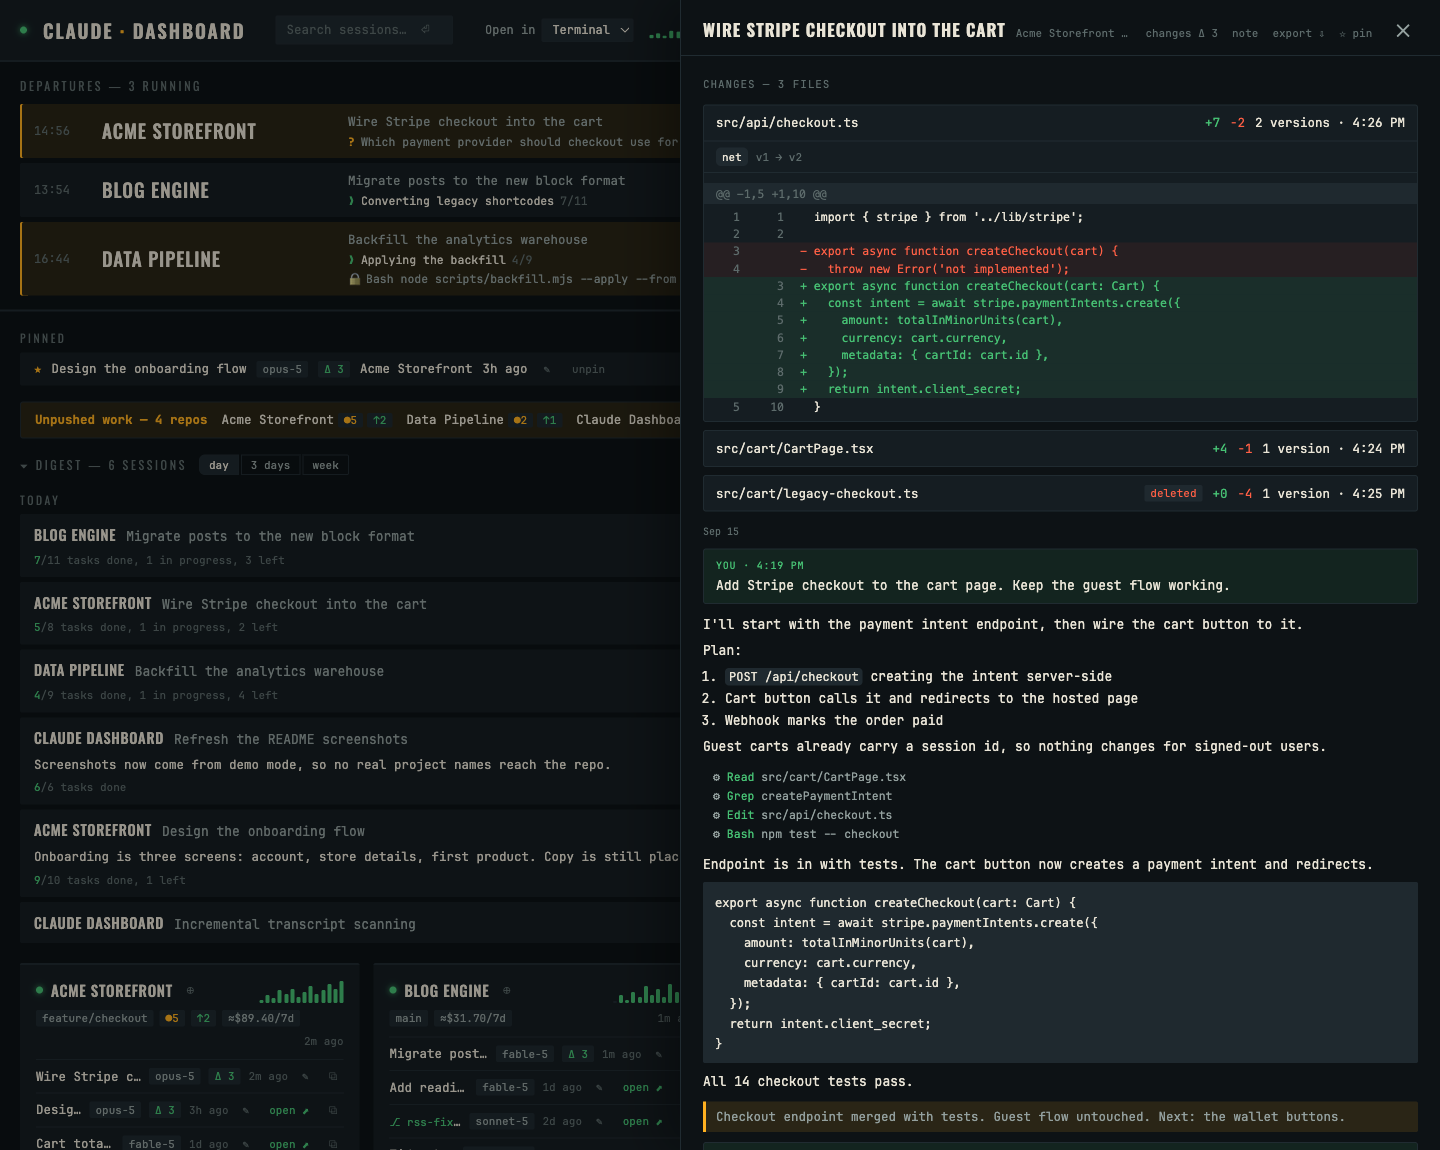
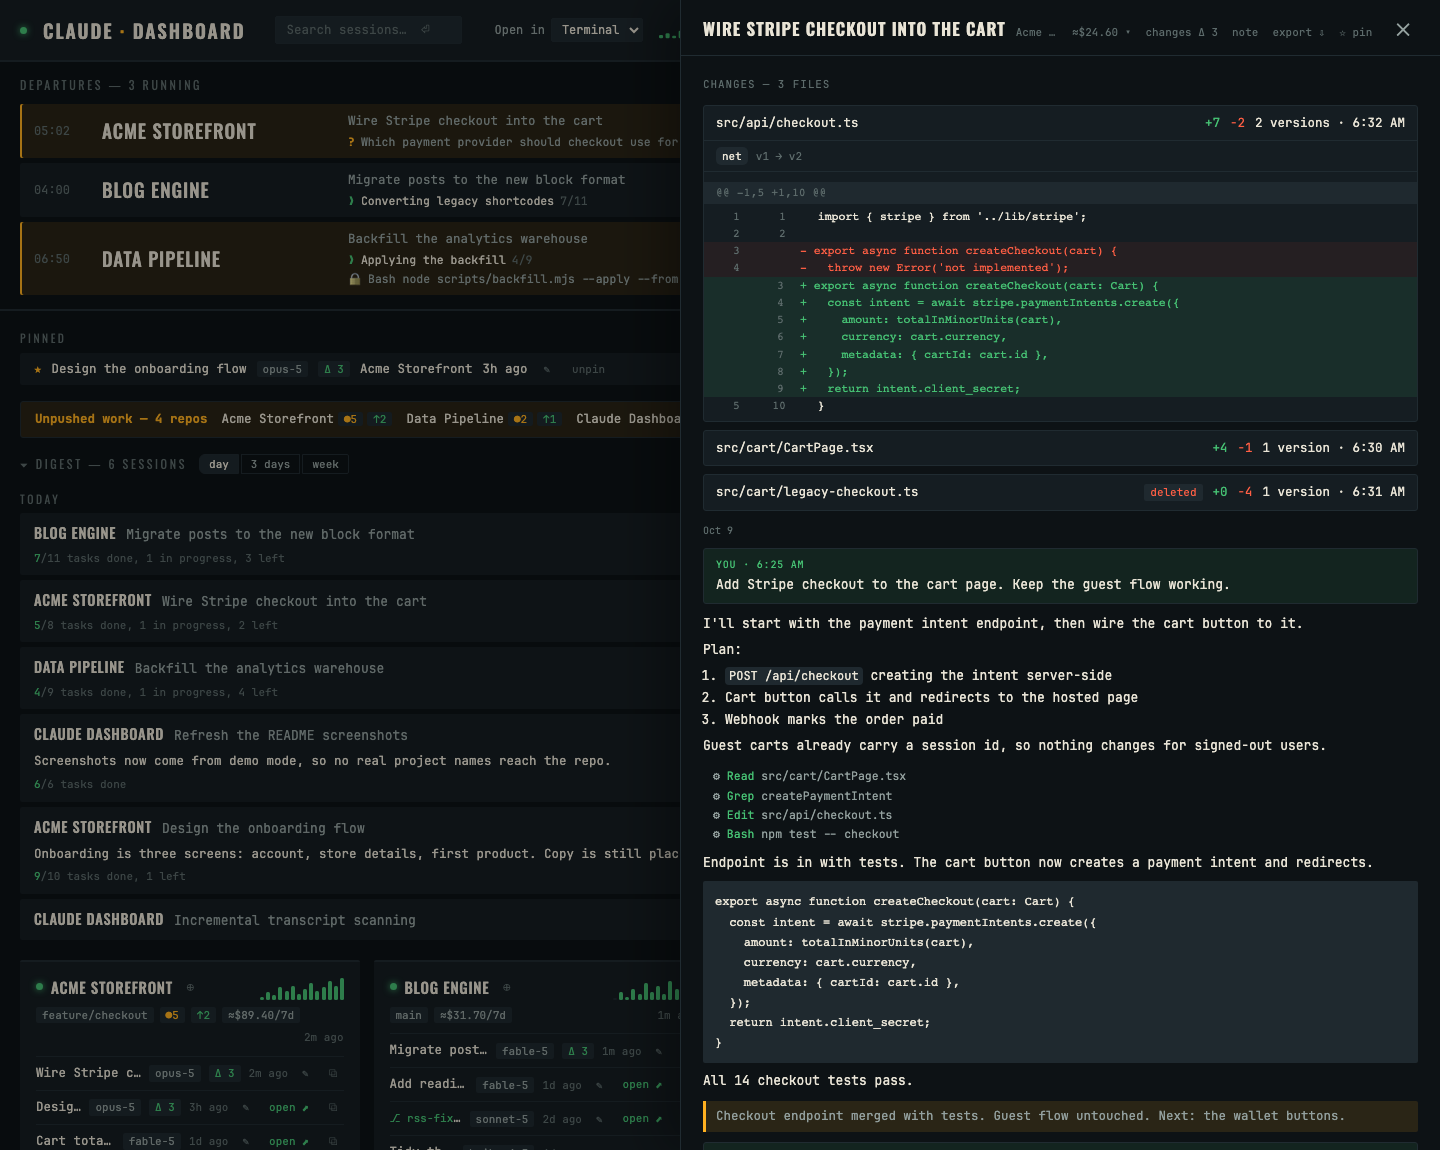
v1.11.1 — Mission Control header fix, matched demo data, refreshed screenshots

diff --git a/public/index.html b/public/index.html
@@ -603,10 +603,12 @@
   }
   .mc-pane.waiting { box-shadow: inset 0 2px 0 var(--warn); }
   .mc-pane-head {
-    display: flex; align-items: center; gap: 10px;
+    display: flex; flex-wrap: wrap; align-items: center; gap: 4px 10px;
     padding: 8px 12px; border-bottom: 1px solid var(--line); flex: none;
     min-width: 0;
   }
+  .mc-pane-head .mc-proj { min-width: 0; flex: 0 1 auto; }
+  .mc-stats { flex: 1 0 100%; display: flex; flex-wrap: wrap; align-items: center; gap: 4px 12px; min-width: 0; }
   .mc-pane-head .mc-proj {
     font-family: var(--disp-font);
     text-transform: uppercase; letter-spacing: 0.05em;
@@ -2056,9 +2058,13 @@ function mcPaneHead(s) {
     ? `<span class="mc-meta" title="subagent transcripts · their tokens">⑂ ${s.subagents.count}${
         s.subagents.mtok ? ` · ${s.subagents.mtok}M tok` : ''}</span>`
     : '';
+  // Two rows: identity and status on top, the numbers underneath, so a
+  // narrow pane never pushes its status badge into the next one.
+  const stats = `${s.estCost != null ? costChip(s.estCost, { cls: 'mc-meta', assumed: s.assumed, after: s.burnRate ? ` · $${s.burnRate}/h` : '' }) : ''}${contextMeter(s.context)}${s.tools ? `<span class="mc-meta" title="tool calls in this session">${s.tools.total} tools${s.tools.errors ? ` · <span class="failed">${s.tools.errors} failed</span>` : ''}</span>` : ''}${subs}`;
   return `<span class="mc-proj" data-session="${esc(s.sessionId)}" title="Open the full transcript">${esc(s.projectName)}</span>
-    ${modelChip(s.model)}${s.estCost != null ? costChip(s.estCost, { cls: 'mc-meta', assumed: s.assumed, after: s.burnRate ? ` · $${s.burnRate}/h` : '' }) : ''}${subs}${contextMeter(s.context)}${s.tools ? `<span class="mc-meta" title="tool calls in this session">${s.tools.total} tools${s.tools.errors ? ` · <span class="failed">${s.tools.errors} failed</span>` : ''}</span>` : ''}<span class="spacer"></span>
-    <span class="mc-meta${s.waitingMin != null ? ' overdue' : ''}">${s.waitingMin != null ? waitLabel(s.waitingMin) : elapsed(s.startedAt)}</span>${statusFlap(s, 'mc:')}`;
+    ${modelChip(s.model)}<span class="spacer"></span>
+    <span class="mc-meta${s.waitingMin != null ? ' overdue' : ''}">${s.waitingMin != null ? waitLabel(s.waitingMin) : elapsed(s.startedAt)}</span>${statusFlap(s, 'mc:')}${
+    stats ? `<span class="mc-stats">${stats}</span>` : ''}`;
 }
 
 const AGENT_COLORS = { blue: '#4a90e2', green: 'var(--accent)', red: 'var(--bad)', yellow: 'var(--warn)', purple: '#a86ee0', cyan: '#2fb8c9', orange: '#e08a2f', pink: '#e06ea8', gray: 'var(--faint)', grey: 'var(--faint)' };

diff --git a/lib/demo.js b/lib/demo.js
@@ -283,10 +283,30 @@ const DEMO_USAGE = {
   tools: { total: 388, errors: 0, byName: [{ name: 'Edit', count: 141, errors: 0 }, { name: 'Read', count: 122, errors: 0 }, { name: 'Bash', count: 79, errors: 0 }, { name: 'Grep', count: 46, errors: 0 }] },
 };
 
+// Per-session usage, so a transcript's cost badge matches its row on the
+// board (S1 Acme $24.60, S4 Data Pipeline $3.40); everything else gets the
+// Blog Engine block.
+const DEMO_USAGE_BY_ID = {
+  [S1]: {
+    cost: 24.6, tokens: 6_200_000, cacheHitRatio: 0.91,
+    byModel: [{ model: 'claude-opus-5', input: 140_000, output: 210_000, cacheRead: 5_400_000, cacheCreation: 450_000, cost: 24.6 }],
+    subagents: null, assumedModels: [],
+    context: { tokens: 412000, window: 1000000, pct: 41 },
+    tools: { total: 142, errors: 3, byName: [{ name: 'Read', count: 58, errors: 0 }, { name: 'Edit', count: 41, errors: 1 }, { name: 'Bash', count: 29, errors: 2 }, { name: 'Grep', count: 14, errors: 0 }] },
+  },
+  [S4]: {
+    cost: 3.4, tokens: 2_100_000, cacheHitRatio: 0.88,
+    byModel: [{ model: 'claude-sonnet-5', input: 60_000, output: 70_000, cacheRead: 1_850_000, cacheCreation: 120_000, cost: 3.4 }],
+    subagents: null, assumedModels: [],
+    context: { tokens: 186000, window: 1000000, pct: 19 },
+    tools: { total: 37, errors: 1, byName: [{ name: 'Bash', count: 21, errors: 1 }, { name: 'Read', count: 12, errors: 0 }, { name: 'Edit', count: 4, errors: 0 }] },
+  },
+};
+
 // The usage block rides only on the initial load, like the real endpoint.
 function demoSession(id, after) {
   const t = demoSessionInner(id, after);
-  return after ? t : { ...t, usage: DEMO_USAGE };
+  return after ? t : { ...t, usage: DEMO_USAGE_BY_ID[id] || DEMO_USAGE };
 }
 
 function blogSession(now, after) {

diff --git a/README.md b/README.md
@@ -26,7 +26,7 @@ Claude Code runs in a terminal. Once you have two or three sessions going, you l
 
 **Requirements:** macOS or Linux (Windows experimental, see below), Node.js ≥ 18, Claude Code.
 
-![Claude Dashboard, dark mode: three live sessions, two of them waiting with the question shown, plus the pinned strip, unpushed work, and today's digest](docs/screenshots/dashboard-dark.png)
+![Claude Dashboard, dark mode: three live sessions with live cost, burn rate and context meters, two of them waiting with the question shown, plus the pinned strip, unpushed work, and today's digest](docs/screenshots/dashboard-dark.png)
 
 *Every screenshot here is demo data (`CLAUDE_DASH_DEMO=1`). The projects are invented.*
 
@@ -121,9 +121,9 @@ If something looks off, the log is at `~/Library/Logs/claude-dashboard.log`. To 
 - **Project cards** — sorted by last activity. Branch chip, `●n` uncommitted changes, `↑n` unpushed commits. The sparkline is prompts per day for the last two weeks. Each session row has an `open ⬈` button that resumes the session in your terminal (new window, right directory) or imports it into the Claude desktop app when it's installed — the **Open in** selector in the header names whichever terminal you've configured (auto-detected on first run). The `⧉` button copies the `claude --resume` command instead.
 - **Header meters** — your plan and rate-limit tier (Free/Pro/Max/Enterprise/API, detected from Claude Code's local account cache), live session and weekly usage from Anthropic's usage API via your existing Claude Code sign-in, plus extra-usage spend. Set a **weekly budget** in settings and a third meter tracks estimated cost (list-price value on a subscription) against it, with one alert each at 75 / 90 / 100%. First run may show one macOS Keychain prompt — click Always Allow.
 
-![Mission Control: every live session tiled side by side, each pane following its own transcript, with the waiting reason at the top of each pane and the agent team under the middle one](docs/screenshots/mission-control.png)
+![Mission Control: every live session tiled side by side, each pane following its own transcript, with cost, burn rate, context meter and tool counts in each header, the waiting reason under it, and the agent team under the middle one](docs/screenshots/mission-control.png)
 
-![Transcript viewer live-following a running session: the agent team at the top, then prompts, replies as markdown, and tool calls as one-liners](docs/screenshots/transcript.png)
+![Transcript viewer on a running session with the cost panel open: value per model by input, output and cache, the subagent share, cache hit rate, context and tool calls, then the agent team and the conversation](docs/screenshots/transcript.png)
 
 - **Transcripts** — click any session title (cards, digest, search results, project drawer) to read the conversation: your prompts, Claude's replies rendered as markdown, tool calls as compact one-liners, and away-summaries highlighted. Long sessions show the newest ~1200 events. **Running sessions follow live** — a `● live` badge appears, new turns stream in every few seconds, and the view sticks to the bottom unless you've scrolled up to read.
 - **Search** — the header box searches every prompt you've ever sent plus all session titles (Enter to run, 2+ characters). Narrow with `project:name` or `since:7d` / `since:2026-08-01`. Clicking a prompt result opens the transcript scrolled to the matching turn. If the answer isn't in a prompt, **search inside full transcripts** runs the same query across the conversation bodies — slower, so it's a second click rather than the default.
@@ -143,10 +143,13 @@ If something looks off, the log is at `~/Library/Logs/claude-dashboard.log`. To 
 - **Models everywhere** — every session shows which model ran it (live cards, digest, session lists), and the stats view breaks down usage per model and per project.
 - **Claude.ai chats** — import the official export from claude.ai (Settings → Privacy → Export data, then feed `conversations.json` to ⚙ settings here) and your chats become browsable (`⌘K` → Claude.ai chats) and full-text searchable next to your coding sessions. Stored slimmed in your local config dir, gitignored, never uploaded anywhere.
 
-![Stats view: activity heatmap, busiest hours, weekly rhythm, 90-day spend, and per-model cost breakdowns](docs/screenshots/stats.png)
+![Stats view: activity heatmap, busiest hours, weekly rhythm, 90-day spend, per-model costs, the most expensive sessions, and models by project](docs/screenshots/stats.png)
 
 - **Project details** — click any project's name for a slide-over with its full session list, recent git commits, rendered CLAUDE.md, per-project memory files, skills/agents/commands from `.claude/`, and settings (permissions, MCP servers, allowed tools), plus the resolved **Toolset** below. Read-only; also a quick audit of which projects are missing instructions or memory. Esc closes.
 - **Toolset** — inside the project slide-over: what Claude Code would actually use in that project. Every installed plugin, every agent and skill from the project, your user dir, and enabled plugins, and every MCP server that applies, each marked on or off with where it came from and which settings scope decided it, resolved with Claude Code's own precedence (managed › local › project › user, deny beats allow, project agents shadow user agents shadow plugin agents). An amber list at the top flags things worth a look: a plugin enabled but not installed or gone stale, a deny rule naming an agent that no longer exists, a server that needs auth, a settings file that doesn't parse. The `⧉` on a row copies the exact snippet to flip it, aimed at `.claude/settings.local.json`; MCP toggles live in Claude's own registry, so that recipe tells you to run `/mcp` in a session instead (servers from a project's `.mcp.json` also honour the settings keys `enabledMcpjsonServers`, `disabledMcpjsonServers` and `enableAllProjectMcpServers`, and their recipes use those). Buttons at the foot reveal the project's settings files in Finder. Read-only — the dashboard never edits Claude configuration.
+
+![Toolset in the project slide-over: plugins, agents, skills and MCP servers marked on or off with their source and deciding settings scope, an amber warning for a plugin enabled but not installed, and buttons for the project's settings files](docs/screenshots/toolset.png)
+
 - **Plugins & MCP** — `⌘K` → Plugins & MCP (or the button in settings) lists every installed plugin with its marketplace, version, on/off state and a `stale` flag when its marketplace was refreshed after the plugin was last updated, plus every MCP server with its scope, the projects that use it, an `off` chip for servers you have disabled in a project, and an amber `needs auth` when Claude Code says so. Read-only; server secrets never reach the browser.
 
 ![Plugins & MCP inventory: plugins with on, off, stale and missing states; MCP servers with scope, projects, disabled flags and needs-auth](docs/screenshots/inventory.png)
